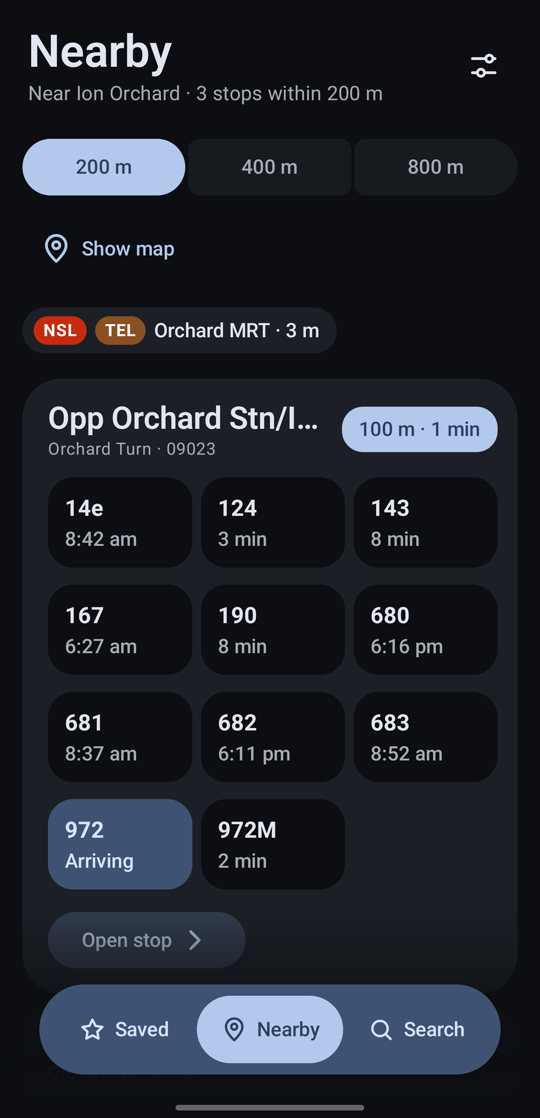
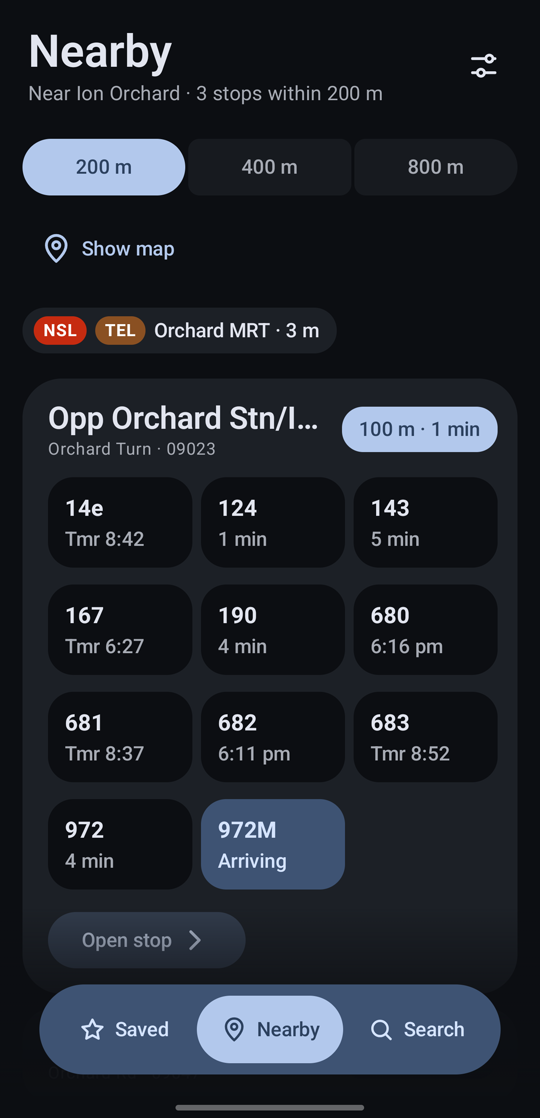
Show the next first bus, not one that has already gone
Services not in LTA's live feed showed today's first-bus time even
after it had passed (14e '8:42 am' at 8:50). nextFirstBusLabel() gives
today's first bus if it's still to come, else tomorrow's ('tomorrow
8:42 am', 'Tmr 8:42' on narrow tiles), or nothing if there's no service
tomorrow either. Used on stops, Nearby, places, Favourites rows and the
widget; 'tomorrow' times sort after today's for the overnight card.
Tests for both cases. Retook the README Nearby screenshot.

diff --git a/app/src/main/java/dev/cantabile/tsugi/data/RouteRepository.kt b/app/src/main/java/dev/cantabile/tsugi/data/RouteRepository.kt
@@ -78,6 +78,26 @@ class RoutesIndex(rows: List<RouteStop>) {
 fun RouteStop.firstBusLabel(now: ZonedDateTime = ZonedDateTime.now(SINGAPORE)): String? =
     times(dayType(now.toLocalDate())).getOrNull(0)?.let(::hhmmLabel)
 
+/**
+ * The next scheduled first bus at this stop: today's if it's still to come, otherwise tomorrow's
+ * ("tomorrow 6:30 am"). For a service that isn't running now; null if neither day has one.
+ * LTA only publishes first and last times, so a mid-day gap (e.g. a peak-only express between its
+ * morning and evening runs) shows tomorrow's first bus.
+ */
+fun RouteStop.nextFirstBusLabel(now: ZonedDateTime = ZonedDateTime.now(SINGAPORE)): String? {
+    val today = now.toLocalDate()
+    times(dayType(today)).getOrNull(0)?.let(::parseHhmm)
+        ?.takeIf { now.toLocalTime().isBefore(it) }
+        ?.let { return timeLabel(it) }
+    return times(dayType(today.plusDays(1))).getOrNull(0)?.let(::parseHhmm)?.let { "$TOMORROW${timeLabel(it)}" }
+}
+
+const val TOMORROW = "tomorrow "
+
+/** For narrow tiles: "tomorrow 6:30 am" → "Tmr 6:30", "5:19 pm" → "5:19 pm". */
+fun compactFirstBus(label: String): String =
+    if (label.startsWith(TOMORROW)) "Tmr " + label.removePrefix(TOMORROW).substringBefore(' ') else label
+
 /** Today's scheduled last bus at [stop], e.g. "11:42 pm". */
 fun RouteStop.lastBusLabel(now: ZonedDateTime = ZonedDateTime.now(SINGAPORE)): String? =
     lastBusAt(now)?.toLocalTime()?.let(::timeLabel)
@@ -93,6 +113,8 @@ fun timeLabel(time: LocalTime): String {
 
 /** "5:29 am" → minutes after midnight, for comparing first-bus times; null if unparseable. */
 fun labelMinutes(label: String): Int? {
+    // "tomorrow 5:29 am" sorts after every time today.
+    if (label.startsWith(TOMORROW)) return labelMinutes(label.removePrefix(TOMORROW))?.plus(24 * 60)
     val m = Regex("""^(\d{1,2}):(\d{2}) (am|pm)$""").matchEntire(label) ?: return null
     val (h, min, half) = m.destructured
     return (h.toInt() % 12 + if (half == "pm") 12 else 0) * 60 + min.toInt()

diff --git a/app/src/main/java/dev/cantabile/tsugi/widget/FavouritesWidget.kt b/app/src/main/java/dev/cantabile/tsugi/widget/FavouritesWidget.kt
@@ -52,7 +52,7 @@ import dev.cantabile.tsugi.TsugiApplication
 import dev.cantabile.tsugi.data.Favourite
 import dev.cantabile.tsugi.data.SINGAPORE
 import dev.cantabile.tsugi.data.ServiceArrivals
-import dev.cantabile.tsugi.data.firstBusLabel
+import dev.cantabile.tsugi.data.nextFirstBusLabel
 import dev.cantabile.tsugi.data.labelMinutes
 import dev.cantabile.tsugi.data.toDomain
 import kotlinx.coroutines.async
@@ -176,7 +176,7 @@ class FavouritesWidget : GlanceAppWidget() {
             val wholeCodes = favourites.filterNot { it is Favourite.Service }.flatMap { if (it is Favourite.Place) it.stopCodes else listOf(it.stopCode) }.toSet()
             routes?.byStop?.filterKeys { it in codes }?.flatMap { (code, stops) ->
                 stops.filter { (code to it.service) in pinnedPairs || code in wholeCodes }
-                    .mapNotNull { r -> r.firstBusLabel()?.let { label -> labelMinutes(label)?.let { Triple(it, label, r.service) } } }
+                    .mapNotNull { r -> r.nextFirstBusLabel()?.let { label -> labelMinutes(label)?.let { Triple(it, label, r.service) } } }
             }?.minByOrNull { it.first }?.let { (_, label, service) -> "No buses running · first bus $label ($service)" }
         } else null
         val updated = DateTimeFormatter.ofPattern("H:mm").withZone(SINGAPORE).format(now)

diff --git a/app/src/test/java/dev/cantabile/tsugi/data/TimetableTest.kt b/app/src/test/java/dev/cantabile/tsugi/data/TimetableTest.kt
@@ -87,3 +87,27 @@ class TimetableTest {
         assertNull(categoryLabel(" "))
     }
 }
+
+class NextFirstBusTest {
+    // A peak-only express: 8:42 am on weekdays, no weekend service.
+    private val express = RouteStop("14e", "SBST", 1, 5, "09023", listOf("0842", "0915"), listOf("-", "-"), listOf("-", "-"))
+    private fun at(s: String) = java.time.ZonedDateTime.parse("${s}+08:00[Asia/Singapore]")
+
+    @Test
+    fun todaysFirstBusWhileItIsStillToCome() {
+        assertEquals("8:42 am", express.nextFirstBusLabel(at("2026-10-07T07:30:00"))) // Wednesday
+    }
+
+    @Test
+    fun tomorrowsOnceTodaysHasGone() {
+        assertEquals("tomorrow 8:42 am", express.nextFirstBusLabel(at("2026-10-07T08:50:00")))
+        assertEquals("Tmr 8:42", compactFirstBus("tomorrow 8:42 am"))
+        // Friday evening: no Saturday service, so nothing to show.
+        org.junit.Assert.assertNull(express.nextFirstBusLabel(at("2026-10-09T09:00:00")))
+    }
+
+    @Test
+    fun tomorrowSortsAfterToday() {
+        assertEquals(24 * 60 + 8 * 60 + 42, labelMinutes("tomorrow 8:42 am"))
+    }
+}

diff --git a/app/src/main/java/dev/cantabile/tsugi/ui/NearbyScreen.kt b/app/src/main/java/dev/cantabile/tsugi/ui/NearbyScreen.kt
@@ -45,6 +45,7 @@ import androidx.compose.ui.text.style.TextOverflow
 import androidx.compose.ui.unit.dp
 import androidx.lifecycle.compose.collectAsStateWithLifecycle
 import dev.cantabile.tsugi.R
+import dev.cantabile.tsugi.data.compactFirstBus
 import dev.cantabile.tsugi.data.NEARBY_RADII
 import dev.cantabile.tsugi.data.NearbyStop
 import java.time.Instant
@@ -222,7 +223,7 @@ private fun NearbyStopCard(
                                         Text(s.serviceNo, style = MaterialTheme.typography.titleMedium, fontWeight = FontWeight.Bold)
                                         Text(
                                             when {
-                                                first == null -> s.firstBus ?: "Not running"
+                                                first == null -> s.firstBus?.let(::compactFirstBus) ?: "Not running"
                                                 arriving -> "Arriving"
                                                 else -> "${minutesUntil(first.eta, now)} min"
                                             },

diff --git a/app/src/main/java/dev/cantabile/tsugi/ui/PlaceScreen.kt b/app/src/main/java/dev/cantabile/tsugi/ui/PlaceScreen.kt
@@ -44,6 +44,8 @@ import androidx.compose.ui.unit.sp
 import androidx.compose.foundation.text.TextAutoSize
 import androidx.lifecycle.compose.collectAsStateWithLifecycle
 import dev.cantabile.tsugi.R
+import dev.cantabile.tsugi.data.compactFirstBus
+import dev.cantabile.tsugi.data.TOMORROW
 import dev.cantabile.tsugi.data.Favourite
 import dev.cantabile.tsugi.data.ServiceArrivals
 import dev.cantabile.tsugi.data.StopArrivals
@@ -199,7 +201,7 @@ fun MiniTile(service: ServiceArrivals, now: Instant, modifier: Modifier = Modifi
         )
         RollingText(
             first?.let { if (arriving) "Arr" else "${minutesUntil(it.eta, now)}m" }
-                ?: service.firstBus?.substringBefore(' ')
+                ?: service.firstBus?.let { compactFirstBus(it).substringBefore(' ').let { t -> if (it.startsWith(TOMORROW)) "Tmr" else t } }
                 ?: "—",
             color = fg,
             style = MaterialTheme.typography.labelMedium,

diff --git a/app/src/main/java/dev/cantabile/tsugi/data/Timetable.kt b/app/src/main/java/dev/cantabile/tsugi/data/Timetable.kt
@@ -85,7 +85,7 @@ fun withTimetable(
     fun complete(s: ServiceArrivals): ServiceArrivals {
         val route = routeOf[s.serviceNo]?.firstOrNull() ?: return s
         return s.copy(
-            firstBus = s.firstBus ?: route.firstBusLabel(now).takeIf { s.buses.isEmpty() },
+            firstBus = s.firstBus ?: route.nextFirstBusLabel(now).takeIf { s.buses.isEmpty() },
             lastBus = route.lastBusAt(now)?.toInstant(),
             frequency = info?.get(s.serviceNo, route.direction)?.frequencyAt(now.toLocalTime(), dayType(now.toLocalDate())),
         )

diff --git a/CHANGELOG.md b/CHANGELOG.md
@@ -41,6 +41,7 @@
 - Pinned shortcuts to a deleted place are disabled.
 - Only 5-digit stop codes are sent to LTA, and the widget's clock uses Singapore time.
 - "1 stop within 200 m", not "1 stops".
+- Services not running now showed today's first-bus time even after it had passed (e.g. a morning-only express at 8:50 am). They now show the next one: today's if it's still to come, otherwise "tomorrow 8:42 am" ("Tmr 8:42" on tiles).
 - Away from your saved stops, Next up showed "No buses running" in the middle of the day: the walking-time check applied to stops kilometres away, so every bus looked uncatchable. Only stops within 400 m count the walk now, and the overnight card only shows when no saved bus is running at all.
 
 ## 0.2.0
